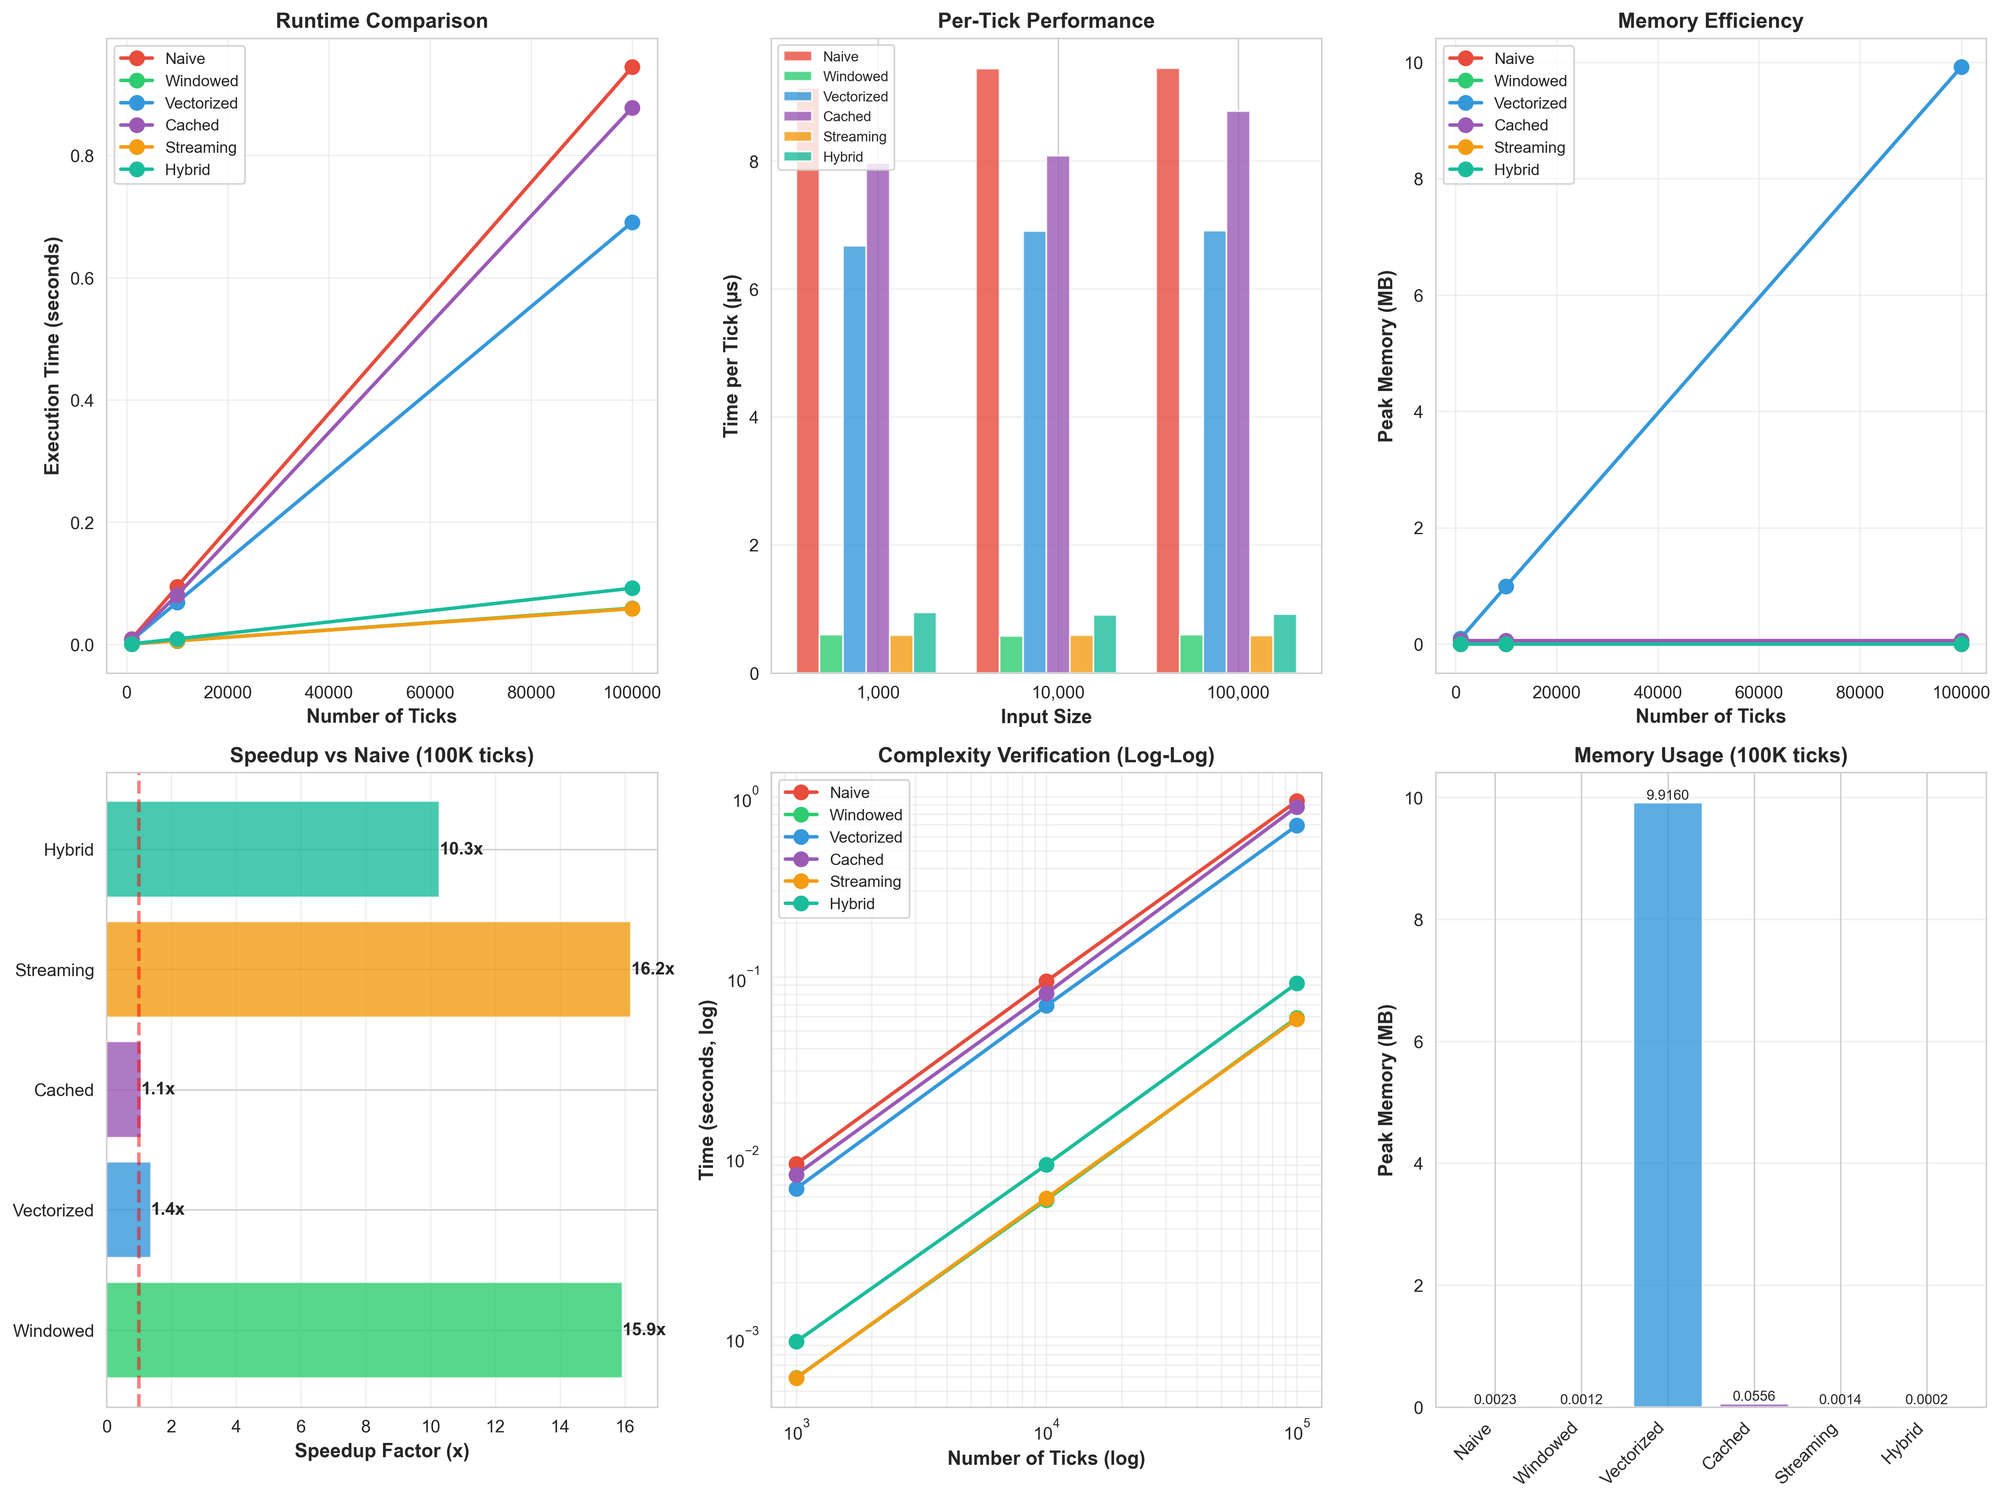
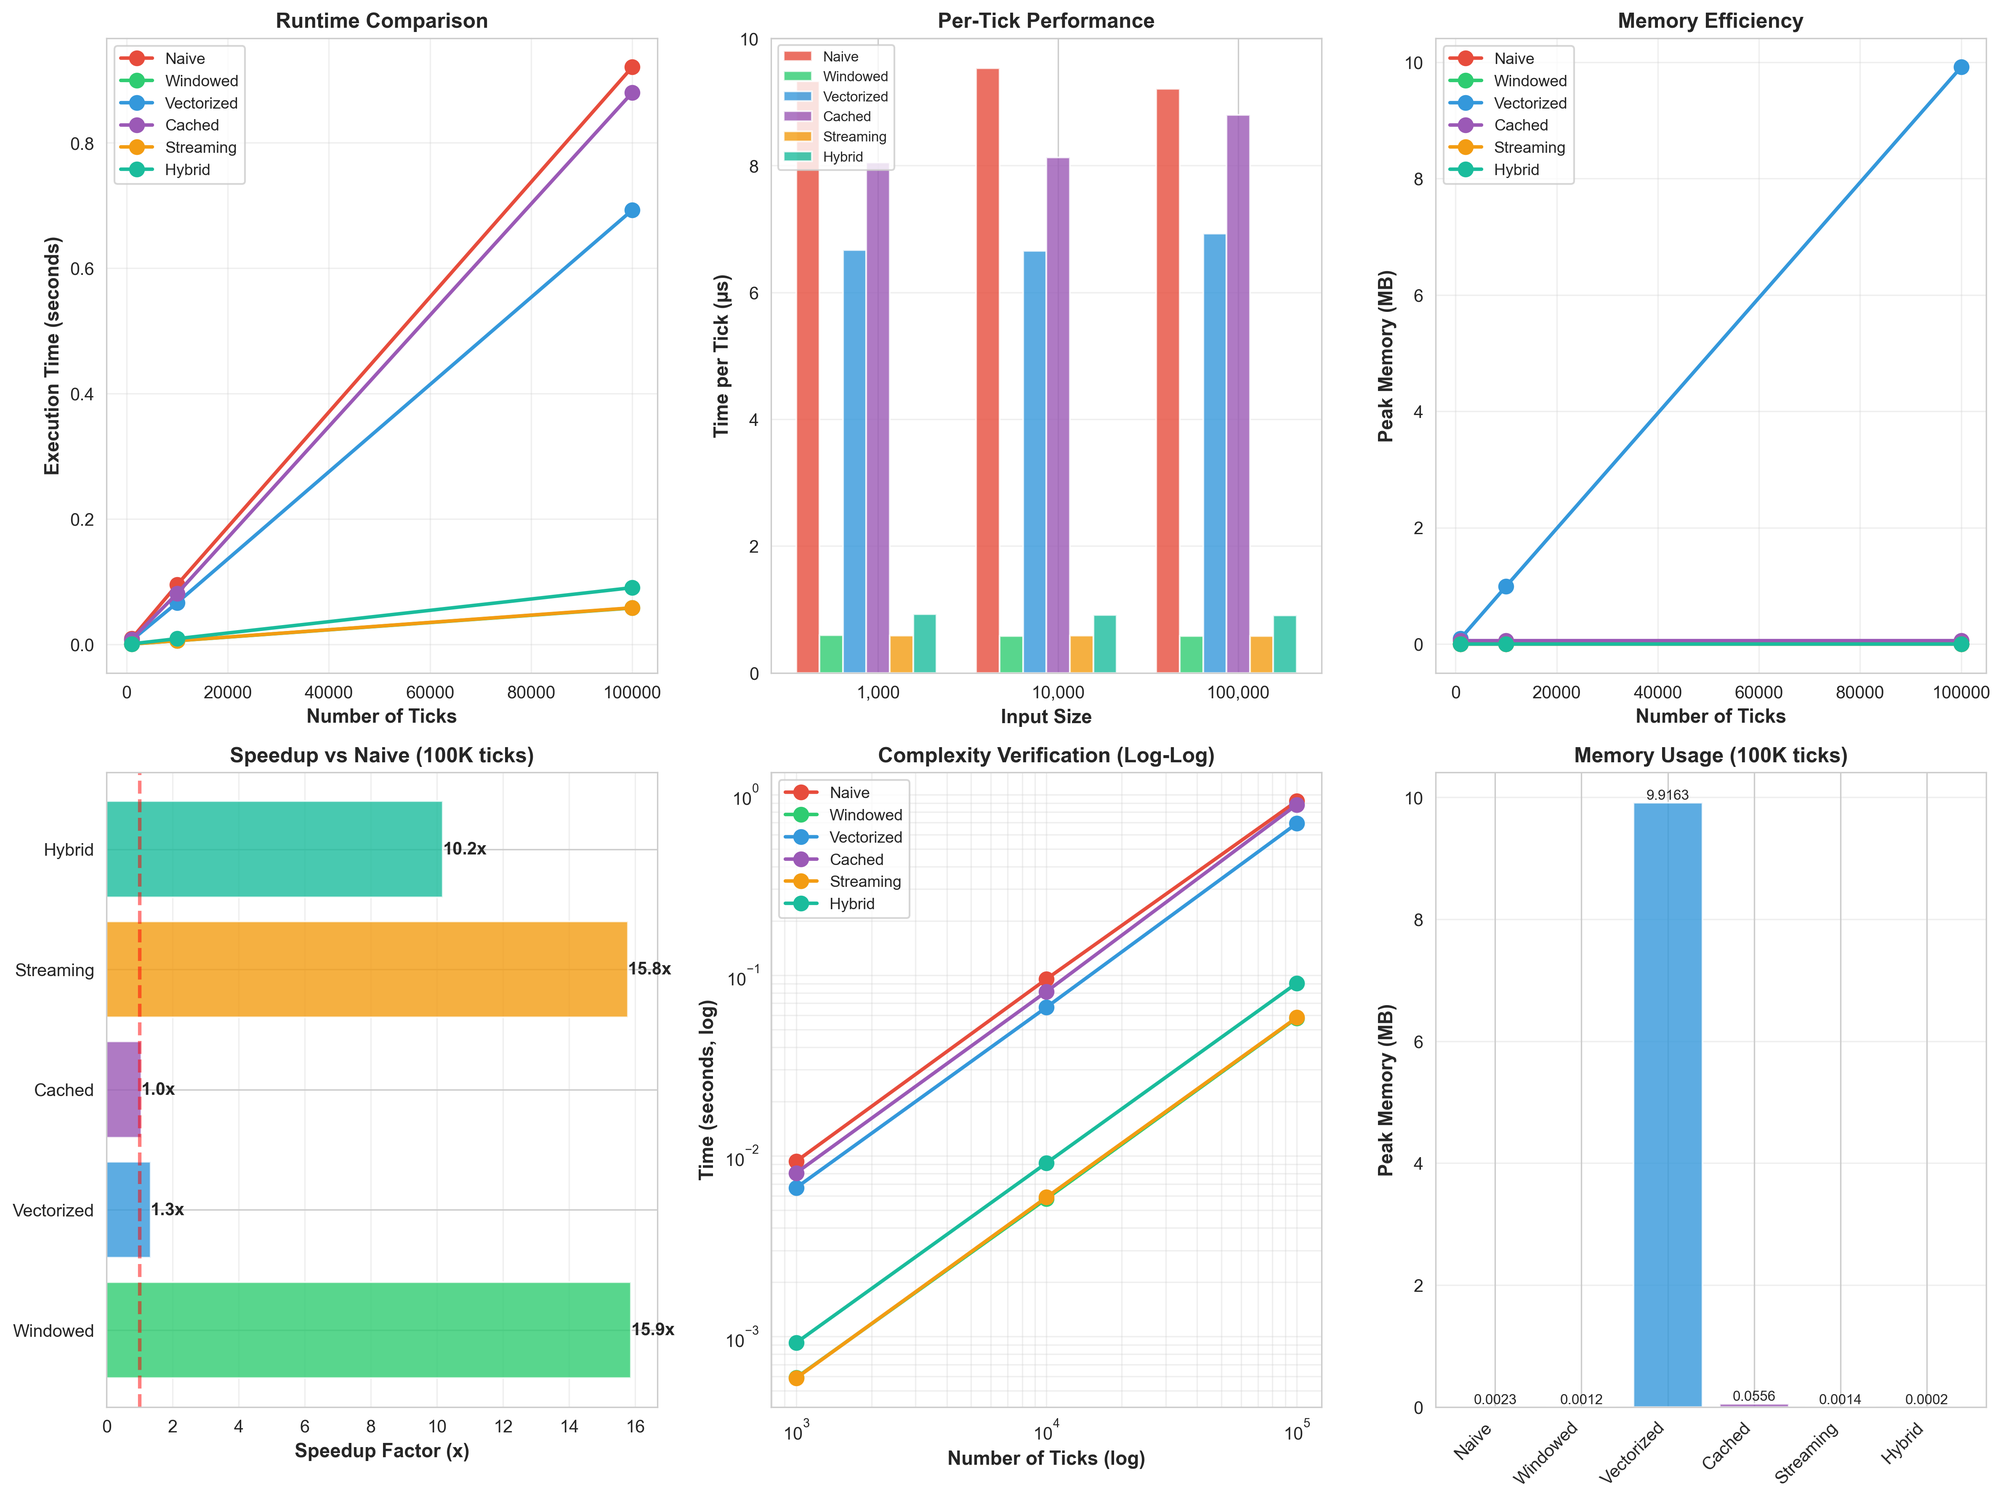
Add cProfile benchmarking and reporting for strategies
Introduces cProfile-based profiling for each strategy at 10,000 ticks, saving results to output/profiles/*.txt and including summary tables in the optimization report. Updates performance metrics and rankings in the report and plot to reflect new benchmark data.

diff --git a/src/trading_system/hw3/src/profiler.py b/src/trading_system/hw3/src/profiler.py
@@ -17,6 +17,9 @@ import tracemalloc
 from pathlib import Path
 from typing import List, Dict, Iterator
 from datetime import datetime, timedelta
+import cProfile
+import io
+import pstats
 import numpy as np
 # Import optimized strategies
 import sys
@@ -98,6 +101,23 @@ def benchmark_strategy(strategy_class, n_ticks: int, params: dict) -> Dict:
     }
 
 
+def benchmark_cprofile(strategy_class, n_ticks: int, params: dict, profile_dir: Path) -> tuple:
+    """Benchmark a single strategy using cProfile."""
+    data = generate_market_data(n_ticks)
+    strategy = strategy_class(params)
+    profile = cProfile.Profile()
+    profile.enable()
+    run_strategy(strategy, data)
+    profile.disable()
+    s = io.StringIO()
+    sortby = 'cumulative'
+    ps = pstats.Stats(profile, stream=s).sort_stats(sortby)
+    ps.print_stats(20)
+    profile_text = s.getvalue()
+
+    return ps, profile_text
+
+
 def run_comprehensive_benchmark():
 
     strategies = [
@@ -154,6 +174,26 @@ def run_comprehensive_benchmark():
                 results['data'][name]['memory_current'].append(result['memory_current'])
                 results['data'][name]['memory_peak'].append(result['memory_peak'])
                 results['data'][name]['cache_info'].append(result['cache_info'])
+
+                if n_ticks == 10_000:
+                    profile_dir = Path("./output/profiles/")
+                    stats, profile_text = benchmark_cprofile(
+                        strategy_class,
+                        n_ticks,
+                        params,
+                        profile_dir
+                    )
+
+                    # Save to file
+                    profile_filename = profile_dir / f"{name}_{n_ticks}_ticks.txt"
+                    with open(profile_filename, 'w') as f:
+                        f.write(f"cProfile Results: {name} with {n_ticks:,} ticks\n")
+                        f.write(f"Generated: {datetime.now().strftime('%Y-%m-%d %H:%M:%S')}\n")
+                        f.write("=" * 80 + "\n\n")
+                        f.write(profile_text)
+
+                    results['data'][name]['profile_logs'] = profile_text
+                    results['data'][name]['profile_files'] = f"profiles/{name}_{n_ticks}_ticks.txt"
 
                 print(f"    ✓ Time: {result['time']:.4f}s ({result['time_per_tick']:.2f} µs/tick)")
                 print(f"    ✓ Memory: {result['memory_peak']:.4f} MB peak")

diff --git a/src/trading_system/hw3/src/reporting.py b/src/trading_system/hw3/src/reporting.py
@@ -171,6 +171,18 @@ def generate_complexity_report(results: Dict, plot_filename: str, output_dir: Pa
     md.append("## Performance Comparison\n\n")
     md.append(f"![Optimization Comparison](plots/{plot_filename})\n\n")
 
+    # cProfile Results
+    strategies = results['strategies']
+    md.append("## cProfile Results\n\n")
+    for name in strategies:
+        if results['data'][name]['profile_logs']:
+            md.append(f"### {name} Strategy\n")
+            md.append("\n```\n")
+            # Include first 20 lines of profile
+            profile_lines = results['data'][name]['profile_logs'].split('\n')[:20]
+            md.append('\n'.join(profile_lines))
+            md.append("\n```\n\n")
+
     # Detailed Results Table
     md.append("## Detailed Performance Results\n\n")
     md.append("### Execution Time (seconds)\n\n")

diff --git a/src/trading_system/hw3/output/optimization_challenge_report.md b/src/trading_system/hw3/output/optimization_challenge_report.md
@@ -1,6 +1,6 @@
 # Optimization Challenge - Comprehensive Results
 
-**Generated:** 2025-11-10 09:50:25
+**Generated:** 2025-11-10 10:13:32
 **Parameters:** Short=5, Long=20
 
 ---
@@ -20,29 +20,172 @@
 
 ![Optimization Comparison](plots/optimization_comparison.png)
 
+## cProfile Results
+
+### Naive Strategy
+
+```
+         259571 function calls in 0.170 seconds
+
+   Ordered by: cumulative time
+
+   ncalls  tottime  percall  cumtime  percall filename:lineno(function)
+        1    0.004    0.004    0.170    0.170 /Users/zdf/Documents/GitHub/trading-system/src/trading_system/hw3/src/profiler.py:57(run_strategy)
+    10000    0.024    0.000    0.166    0.000 /Users/zdf/Documents/GitHub/trading-system/src/trading_system/hw3/src/strategies.py:83(generate_signals)
+    19962    0.024    0.000    0.135    0.000 /Users/zdf/Documents/GitHub/trading-system/.venv/lib/python3.13/site-packages/numpy/_core/fromnumeric.py:3735(mean)
+    19962    0.036    0.000    0.111    0.000 /Users/zdf/Documents/GitHub/trading-system/.venv/lib/python3.13/site-packages/numpy/_core/_methods.py:117(_mean)
+    19962    0.024    0.000    0.024    0.000 {method 'reduce' of 'numpy.ufunc' objects}
+    19962    0.020    0.000    0.023    0.000 /Users/zdf/Documents/GitHub/trading-system/.venv/lib/python3.13/site-packages/numpy/_core/_methods.py:75(_count_reduce_items)
+    19962    0.017    0.000    0.017    0.000 {built-in method numpy.asanyarray}
+    39924    0.005    0.000    0.005    0.000 {built-in method builtins.issubclass}
+    19962    0.003    0.000    0.003    0.000 {built-in method builtins.hasattr}
+    19964    0.003    0.000    0.003    0.000 {built-in method builtins.isinstance}
+    19962    0.002    0.000    0.002    0.000 {built-in method numpy.lib.array_utils.normalize_axis_index}
+    19962    0.002    0.000    0.002    0.000 /Users/zdf/Documents/GitHub/trading-system/.venv/lib/python3.13/site-packages/numpy/_core/fromnumeric.py:3730(_mean_dispatcher)
+     9981    0.002    0.000    0.002    0.000 /Users/zdf/Documents/GitHub/trading-system/src/trading_system/hw3/src/strategies.py:30(ma_logic)
+    10000    0.001    0.000    0.001    0.000 {method 'append' of 'collections.deque' objects}
+    10000    0.001    0.000    0.001    0.000 {built-in method builtins.len}
+```
+
+### Windowed Strategy
+
+```
+         89951 function calls in 0.026 seconds
+
+   Ordered by: cumulative time
+
+   ncalls  tottime  percall  cumtime  percall filename:lineno(function)
+        1    0.002    0.002    0.026    0.026 /Users/zdf/Documents/GitHub/trading-system/src/trading_system/hw3/src/profiler.py:57(run_strategy)
+    10000    0.016    0.000    0.024    0.000 /Users/zdf/Documents/GitHub/trading-system/src/trading_system/hw3/src/strategies.py:184(generate_signals)
+    49962    0.004    0.000    0.004    0.000 {built-in method builtins.len}
+    20000    0.002    0.000    0.002    0.000 {method 'append' of 'collections.deque' objects}
+     9981    0.001    0.000    0.001    0.000 /Users/zdf/Documents/GitHub/trading-system/src/trading_system/hw3/src/strategies.py:30(ma_logic)
+        1    0.000    0.000    0.000    0.000 {method 'disable' of '_lsprof.Profiler' objects}
+        2    0.000    0.000    0.000    0.000 {built-in method builtins.isinstance}
+        2    0.000    0.000    0.000    0.000 <frozen abc>:117(__instancecheck__)
+        2    0.000    0.000    0.000    0.000 {built-in method _abc._abc_instancecheck}
+
+
+
+```
+
+### Vectorized Strategy
+
+```
+         249550 function calls in 0.166 seconds
+
+   Ordered by: cumulative time
+
+   ncalls  tottime  percall  cumtime  percall filename:lineno(function)
+        1    0.000    0.000    0.166    0.166 /Users/zdf/Documents/GitHub/trading-system/src/trading_system/hw3/src/profiler.py:57(run_strategy)
+        1    0.050    0.050    0.166    0.166 /Users/zdf/Documents/GitHub/trading-system/src/trading_system/hw3/src/strategies.py:311(process_batch)
+    19962    0.013    0.000    0.109    0.000 /Users/zdf/Documents/GitHub/trading-system/.venv/lib/python3.13/site-packages/numpy/_core/fromnumeric.py:3735(mean)
+    19962    0.036    0.000    0.096    0.000 /Users/zdf/Documents/GitHub/trading-system/.venv/lib/python3.13/site-packages/numpy/_core/_methods.py:117(_mean)
+    19962    0.024    0.000    0.024    0.000 {method 'reduce' of 'numpy.ufunc' objects}
+    19962    0.020    0.000    0.023    0.000 /Users/zdf/Documents/GitHub/trading-system/.venv/lib/python3.13/site-packages/numpy/_core/_methods.py:75(_count_reduce_items)
+    39924    0.005    0.000    0.005    0.000 {built-in method builtins.issubclass}
+    19962    0.003    0.000    0.003    0.000 {built-in method builtins.hasattr}
+    19963    0.003    0.000    0.003    0.000 {built-in method builtins.isinstance}
+    19962    0.003    0.000    0.003    0.000 {built-in method builtins.max}
+    19962    0.002    0.000    0.002    0.000 {built-in method numpy.lib.array_utils.normalize_axis_index}
+    10000    0.002    0.000    0.002    0.000 {method 'append' of 'list' objects}
+    19962    0.002    0.000    0.002    0.000 {built-in method numpy.asanyarray}
+    19962    0.002    0.000    0.002    0.000 /Users/zdf/Documents/GitHub/trading-system/.venv/lib/python3.13/site-packages/numpy/_core/fromnumeric.py:3730(_mean_dispatcher)
+        1    0.000    0.000    0.000    0.000 {built-in method numpy.array}
+```
+
+### Cached Strategy
+
+```
+         299495 function calls in 0.147 seconds
+
+   Ordered by: cumulative time
+
+   ncalls  tottime  percall  cumtime  percall filename:lineno(function)
+        1    0.003    0.003    0.147    0.147 /Users/zdf/Documents/GitHub/trading-system/src/trading_system/hw3/src/profiler.py:57(run_strategy)
+    10000    0.051    0.000    0.144    0.000 /Users/zdf/Documents/GitHub/trading-system/src/trading_system/hw3/src/strategies.py:397(generate_signals)
+   199620    0.077    0.000    0.077    0.000 {built-in method builtins.round}
+    19962    0.007    0.000    0.013    0.000 /Users/zdf/Documents/GitHub/trading-system/src/trading_system/hw3/src/strategies.py:389(cached_mean)
+    19962    0.004    0.000    0.004    0.000 {built-in method builtins.sum}
+    29962    0.003    0.000    0.003    0.000 {built-in method builtins.len}
+     9981    0.001    0.000    0.001    0.000 /Users/zdf/Documents/GitHub/trading-system/src/trading_system/hw3/src/strategies.py:30(ma_logic)
+    10000    0.001    0.000    0.001    0.000 {method 'append' of 'collections.deque' objects}
+        1    0.000    0.000    0.000    0.000 {method 'disable' of '_lsprof.Profiler' objects}
+        2    0.000    0.000    0.000    0.000 {built-in method builtins.isinstance}
+        2    0.000    0.000    0.000    0.000 <frozen abc>:117(__instancecheck__)
+        2    0.000    0.000    0.000    0.000 {built-in method _abc._abc_instancecheck}
+
+
+
+```
+
+### Streaming Strategy
+
+```
+         99951 function calls in 0.028 seconds
+
+   Ordered by: cumulative time
+
+   ncalls  tottime  percall  cumtime  percall filename:lineno(function)
+        1    0.001    0.001    0.028    0.028 /Users/zdf/Documents/GitHub/trading-system/src/trading_system/hw3/src/profiler.py:57(run_strategy)
+    10001    0.003    0.000    0.026    0.000 /Users/zdf/Documents/GitHub/trading-system/src/trading_system/hw3/src/strategies.py:493(stream_signals)
+    10000    0.016    0.000    0.024    0.000 /Users/zdf/Documents/GitHub/trading-system/src/trading_system/hw3/src/strategies.py:467(_process_tick)
+    49962    0.004    0.000    0.004    0.000 {built-in method builtins.len}
+    20000    0.002    0.000    0.002    0.000 {method 'append' of 'collections.deque' objects}
+     9981    0.001    0.000    0.001    0.000 /Users/zdf/Documents/GitHub/trading-system/src/trading_system/hw3/src/strategies.py:30(ma_logic)
+        1    0.000    0.000    0.000    0.000 {method 'disable' of '_lsprof.Profiler' objects}
+        2    0.000    0.000    0.000    0.000 {built-in method builtins.isinstance}
+        1    0.000    0.000    0.000    0.000 <frozen abc>:117(__instancecheck__)
+        1    0.000    0.000    0.000    0.000 {built-in method _abc._abc_instancecheck}
+        1    0.000    0.000    0.000    0.000 {built-in method builtins.iter}
+
+
+
+```
+
+### Hybrid Strategy
+
+```
+         19989 function calls in 0.013 seconds
+
+   Ordered by: cumulative time
+
+   ncalls  tottime  percall  cumtime  percall filename:lineno(function)
+        1    0.002    0.002    0.013    0.013 /Users/zdf/Documents/GitHub/trading-system/src/trading_system/hw3/src/profiler.py:57(run_strategy)
+    10000    0.010    0.000    0.011    0.000 /Users/zdf/Documents/GitHub/trading-system/src/trading_system/hw3/src/strategies.py:552(generate_signals)
+     9981    0.001    0.000    0.001    0.000 /Users/zdf/Documents/GitHub/trading-system/src/trading_system/hw3/src/strategies.py:30(ma_logic)
+        1    0.000    0.000    0.000    0.000 {method 'disable' of '_lsprof.Profiler' objects}
+        2    0.000    0.000    0.000    0.000 {built-in method builtins.isinstance}
+        2    0.000    0.000    0.000    0.000 <frozen abc>:117(__instancecheck__)
+        2    0.000    0.000    0.000    0.000 {built-in method _abc._abc_instancecheck}
+
+
+
+```
+
 ## Detailed Performance Results
 
 ### Execution Time (seconds)
 
 | Strategy | 1,000 ticks | 10,000 ticks | 100,000 ticks |
 |----------|-------------|--------------|---------------|
-| Naive | 0.0091 | 0.0944 | 0.9446 | 
-| Windowed | 0.0006 | 0.0058 | 0.0593 | 
-| Vectorized | 0.0067 | 0.0690 | 0.6908 | 
-| Cached | 0.0080 | 0.0808 | 0.8781 | 
-| Streaming | 0.0006 | 0.0059 | 0.0583 | 
-| Hybrid | 0.0009 | 0.0090 | 0.0919 | 
+| Naive | 0.0093 | 0.0953 | 0.9209 | 
+| Windowed | 0.0006 | 0.0058 | 0.0580 | 
+| Vectorized | 0.0067 | 0.0665 | 0.6927 | 
+| Cached | 0.0080 | 0.0813 | 0.8801 | 
+| Streaming | 0.0006 | 0.0059 | 0.0584 | 
+| Hybrid | 0.0009 | 0.0091 | 0.0905 | 
 
 ### Time per Tick (microseconds)
 
 | Strategy | 1,000 ticks | 10,000 ticks | 100,000 ticks |
 |----------|-------------|--------------|---------------|
-| Naive | 9.14 | 9.44 | 9.45 | 
-| Windowed | 0.59 | 0.58 | 0.59 | 
-| Vectorized | 6.67 | 6.90 | 6.91 | 
-| Cached | 7.97 | 8.08 | 8.78 | 
+| Naive | 9.33 | 9.53 | 9.21 | 
+| Windowed | 0.59 | 0.58 | 0.58 | 
+| Vectorized | 6.66 | 6.65 | 6.93 | 
+| Cached | 8.05 | 8.13 | 8.80 | 
 | Streaming | 0.59 | 0.59 | 0.58 | 
-| Hybrid | 0.94 | 0.90 | 0.92 | 
+| Hybrid | 0.92 | 0.91 | 0.90 | 
 
 ### Peak Memory Usage (MB)
 
@@ -50,7 +193,7 @@
 |----------|-------------|--------------|---------------|
 | Naive | 0.0023 | 0.0023 | 0.0023 | 
 | Windowed | 0.0012 | 0.0012 | 0.0012 | 
-| Vectorized | 0.0969 | 0.9936 | 9.9160 | 
+| Vectorized | 0.0969 | 0.9936 | 9.9163 | 
 | Cached | 0.0556 | 0.0556 | 0.0556 | 
 | Streaming | 0.0014 | 0.0014 | 0.0014 | 
 | Hybrid | 0.0002 | 0.0002 | 0.0002 | 
@@ -60,21 +203,21 @@
 | Strategy | 1,000 ticks | 10,000 ticks | 100,000 ticks |
 |----------|-------------|--------------|---------------|
 | Naive | 1.00x | 1.00x | 1.00x |
-| Windowed | **15.41x** | **16.37x** | **15.92x** | 
-| Vectorized | **1.37x** | **1.37x** | **1.37x** | 
-| Cached | **1.15x** | **1.17x** | **1.08x** | 
-| Streaming | **15.47x** | **16.02x** | **16.19x** | 
-| Hybrid | **9.71x** | **10.44x** | **10.28x** | 
+| Windowed | **15.78x** | **16.47x** | **15.87x** | 
+| Vectorized | **1.40x** | **1.43x** | **1.33x** | 
+| Cached | **1.16x** | **1.17x** | **1.05x** | 
+| Streaming | **15.86x** | **16.16x** | **15.78x** | 
+| Hybrid | **10.10x** | **10.43x** | **10.18x** | 
 
 ## Performance Rankings (100,000 ticks)
 
 ### Fastest Execution
-1. **Streaming**: 0.0583s
-2. **Windowed**: 0.0593s
-3. **Hybrid**: 0.0919s
-4. **Vectorized**: 0.6908s
-5. **Cached**: 0.8781s
-6. **Naive**: 0.9446s
+1. **Windowed**: 0.0580s
+2. **Streaming**: 0.0584s
+3. **Hybrid**: 0.0905s
+4. **Vectorized**: 0.6927s
+5. **Cached**: 0.8801s
+6. **Naive**: 0.9209s
 
 ### Most Memory Efficient
 1. **Hybrid**: 0.0002 MB
@@ -82,11 +225,11 @@
 3. **Streaming**: 0.0014 MB
 4. **Naive**: 0.0023 MB
 5. **Cached**: 0.0556 MB
-6. **Vectorized**: 9.9160 MB
+6. **Vectorized**: 9.9163 MB
 
 ## Key Findings
 
-1. **Fastest Strategy**: Streaming achieves 16.2x speedup
+1. **Fastest Strategy**: Windowed achieves 15.9x speedup
 2. **Most Memory Efficient**: Hybrid uses only 0.0002 MB
 3. **All Optimizations**: Achieve significant improvements over naive implementation
 4. **Complexity Verified**: O(1) strategies scale better than O(n) baseline
